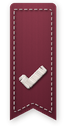
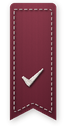
feat(bibliotheque): signet « en cours » rempli de lie de vin, coche brodée affinée (#70)
- RibbonBookmark reading : ruban écru que le lie de vin remplit depuis le haut à
  mon % (deux images calées au pixel, la seconde coupée), à la place de l'anneau
- Coche effilée aux deux bouts, pleine au coin, fils plus fins
- ReadingStateBadge supprimé

Changed region(s): [[0.2647, 0.4848, 0.7059, 0.697]]

diff --git a/components/ui/RibbonBookmark.tsx b/components/ui/RibbonBookmark.tsx
@@ -1,17 +1,20 @@
 /**
  * Composant RibbonBookmark
  *
- * Un signet en ruban, brodé, qui sort du haut du livre, passe par-dessus le bord
- * de la couverture et pend devant elle :
+ * Un signet en ruban, brodé, qui sort du haut du livre et pend devant la
+ * couverture, bout coupé en V, surpiqûre sur tout le tour :
  *
- *        ▄▄▄       ← le pli, au-dessus du bord
- *     ┌──███──┐
- *     │  ███  │    gros-grain, bout coupé en V
- *     │  █✓█  │    motif brodé au point passé
- *     │  ▀ ▀  │
+ *     ┌─────────┐  ┌─────────┐  ┌─────────┐
+ *     │┆       ┆│  │┆▓▓▓▓▓▓▓┆│  │┆       ┆│
+ *     │┆       ┆│  │┆▓▓▓▓▓▓▓┆│  │┆   ✦   ┆│
+ *     │┆   ✓   ┆│  │┆       ┆│  │┆       ┆│
+ *     └──╲ ╱──┘   └──╲ ╱──┘   └──╲ ╱──┘
+ *      terminé      en cours     nouveau
  *
- * - `done` : ruban noyer, coche brodée crème — livre terminé ;
- * - `new`  : ruban sable, étincelle brodée noyer — dernier livre ajouté.
+ * - `done`    : ruban lie de vin, coche brodée crème ;
+ * - `reading` : ruban écru que le lie de vin remplit depuis le haut, à mon % —
+ *               à 100 %, c'est le ruban « terminé » ;
+ * - `new`     : ruban écru, étincelle brodée lie de vin (dernier livre ajouté).
  *
  * Les images sont calculées par scripts/generate-ribbon-bookmarks.py (tissu,
  * broderie en relief, ombre portée) : c'est ce qui les rend réalistes. Pour une
@@ -20,26 +23,62 @@
 
 import { Image } from 'expo-image';
 import React from 'react';
-import { StyleSheet } from 'react-native';
+import { StyleSheet, View } from 'react-native';
 
 const RIBBONS = {
   done: require('../../assets/images/ribbons/ribbon-done.png'),
   new: require('../../assets/images/ribbons/ribbon-new.png'),
+  track: require('../../assets/images/ribbons/ribbon-progress-track.png'),
+  fill: require('../../assets/images/ribbons/ribbon-progress-fill.png'),
 };
 
-/** Taille de l'image, ombre comprise (cf. CANVAS_W / CANVAS_H du script) */
+/** Taille de l'image, ombre comprise, et bornes du ruban (CANVAS_*, TOP, TAIL_END du script) */
 const WIDTH = 34;
 const HEIGHT = 66;
-/** Hauteur du pli au-dessus du bord de la couverture (COVER_TOP du script) */
+const RIBBON_TOP = 1.5;
+const RIBBON_END = 60;
+/** Hauteur du ruban au-dessus du bord de la couverture (COVER_TOP du script) */
 export const RIBBON_ABOVE_COVER = 9;
+/**
+ * Remplissage minimum d'un livre commencé : à 3 %, le lie de vin n'est qu'un
+ * liseré et on ne le distingue plus d'un livre pas commencé. Le vrai % reste lu
+ * par VoiceOver sur la couverture.
+ */
+const MIN_FILL_PERCENT = 10;
 
-export default function RibbonBookmark({ kind }: { kind: keyof typeof RIBBONS }) {
-  return <Image source={RIBBONS[kind]} style={styles.ribbon} contentFit="contain" />;
+type RibbonBookmarkProps =
+  | { kind: 'done' | 'new' }
+  | { kind: 'reading'; /** Mon avancement, de 0 à 100 */ percent: number };
+
+export default function RibbonBookmark(props: RibbonBookmarkProps) {
+  if (props.kind !== 'reading') {
+    return <Image source={RIBBONS[props.kind]} style={styles.ribbon} contentFit="contain" />;
+  }
+
+  const percent = Math.min(100, Math.max(MIN_FILL_PERCENT, props.percent));
+  const fillHeight = RIBBON_TOP + ((RIBBON_END - RIBBON_TOP) * percent) / 100;
+
+  return (
+    <View style={styles.ribbon}>
+      <Image source={RIBBONS.track} style={StyleSheet.absoluteFill} contentFit="contain" />
+      {/* Le lie de vin, coupé à mon % : même tissu, même surpiqûre, calés au pixel */}
+      <View style={[styles.fill, { height: fillHeight }]}>
+        <Image source={RIBBONS.fill} style={styles.ribbon} contentFit="contain" />
+      </View>
+    </View>
+  );
 }
 
 const styles = StyleSheet.create({
   ribbon: {
     width: WIDTH,
     height: HEIGHT,
+  },
+  fill: {
+    position: 'absolute',
+    top: 0,
+    left: 0,
+    width: WIDTH,
+    overflow: 'hidden',
   },
 });

diff --git a/components/ui/BookLibrary.tsx b/components/ui/BookLibrary.tsx
@@ -11,10 +11,10 @@
  * sombre (flou + noyer à 30 %) posée PAR-DESSUS le bas des couvertures, qui
  * passent donc derrière elle.
  *
- * Sur chaque couverture, selon MA progression : l'anneau d'un livre en cours
- * (ReadingStateBadge, coin haut droit), ou un signet brodé qui pend du haut
- * (RibbonBookmark) — coche pour un livre terminé, étincelle pour le dernier
- * livre ajouté pas encore commencé. Un autre livre pas commencé n'a rien.
+ * Sur chaque couverture, selon MA progression, un signet brodé qui pend du haut
+ * (RibbonBookmark) : rempli de lie de vin à mon % pour un livre en cours, coche
+ * pour un livre terminé, étincelle pour le dernier livre ajouté pas encore
+ * commencé. Un autre livre pas commencé n'a rien.
  *
  * Toucher une couverture l'affiche sur l'accueil et ferme le sheet.
  *
@@ -38,7 +38,6 @@ import { BookReading, LibrarySort, LIBRARY_SORTS, readingLabel } from '../../uti
 import BookCover, { COVER_RATIO } from './BookCover';
 import RibbonBookmark, { RIBBON_ABOVE_COVER } from './RibbonBookmark';
 import PressableScale from './PressableScale';
-import ReadingStateBadge from './ReadingStateBadge';
 import SortMenu from './SortMenu';
 
 // ─── Props ─────────────────────────────────────────────────────────
@@ -81,8 +80,6 @@ function estimateContentHeight(shelfCount: number): number {
   return SORT_ROW_H + shelfCount * (SHELF_GAP + SHELF_H) + LIST_BOTTOM;
 }
 
-/** De combien la pastille d'état déborde du coin de la couverture */
-const BADGE_OVERHANG = 9;
 /** Pastille si le livre n'est pas encore dans `readings` (premier chargement) */
 const UNREAD: BookReading = { state: 'unread', percent: 0 };
 
@@ -194,13 +191,13 @@ function Shelf({
                 accessibilityState={{ selected: isActive }}
               >
                 <BookCover coverUrl={challenge.cover_url} outlined />
-                {isNew || reading.state === 'done' ? (
+                {(isNew || reading.state !== 'unread') && (
                   <View style={styles.ribbon} pointerEvents="none">
-                    <RibbonBookmark kind={isNew ? 'new' : 'done'} />
-                  </View>
-                ) : (
-                  <View style={styles.badge} pointerEvents="none">
-                    <ReadingStateBadge {...reading} />
+                    {reading.state === 'reading' ? (
+                      <RibbonBookmark kind="reading" percent={reading.percent} />
+                    ) : (
+                      <RibbonBookmark kind={isNew ? 'new' : 'done'} />
+                    )}
                   </View>
                 )}
               </PressableScale>
@@ -322,11 +319,6 @@ const styles = StyleSheet.create({
     height: COVER_H,
   },
   /** Pastille d'état, à cheval sur le coin haut droit de la couverture */
-  badge: {
-    position: 'absolute',
-    top: -BADGE_OVERHANG,
-    right: -BADGE_OVERHANG,
-  },
   /** Signet : son pli dépasse au-dessus du bord, il pend près du bord droit */
   ribbon: {
     position: 'absolute',

diff --git a/scripts/generate-ribbon-bookmarks.py b/scripts/generate-ribbon-bookmarks.py
@@ -17,8 +17,11 @@ Réalisme, dans l'ordre du dessin :
 - l'ombre du ruban sur la couverture.
 
 Variantes :
-- done : ruban noyer, coche brodée crème (livre terminé) ;
-- new  : ruban sable, étincelle brodée noyer (dernier livre ajouté).
+- done           : ruban lie de vin, coche brodée crème (livre terminé) ;
+- new            : ruban écru, étincelle brodée lie de vin (dernier livre ajouté) ;
+- progress-track : ruban écru nu (livre en cours, le fond) ;
+- progress-fill  : ruban lie de vin nu, sans ombre (livre en cours, le remplissage
+                   que l'app coupe à mon %).
 
 Usage : python3 scripts/generate-ribbon-bookmarks.py
 Dépendances : numpy, Pillow.
@@ -44,10 +47,19 @@ NOTCH = 6                        # profondeur du V
 ICON_CENTER = (RIBBON_X + RIBBON_W / 2, 38)
 BORDER_INSET = 2.2               # surpiqûre : distance au bord du ruban
 
+WINE = ("#8c3b4c", "#5e1f2e")
+ECRU = ("#f3e9df", "#e1cfbf")
+CREAM_THREAD = "#f6ede4"
+WINE_THREAD = "#7a2e3e"
+
 VARIANTS = {
-    # Essai d'une couleur d'accent lie de vin (demande de Lea, 2026-09-17)
-    "done": {"ribbon": ("#8c3b4c", "#5e1f2e"), "thread": "#f6ede4", "motif": "check"},
-    "new": {"ribbon": ("#f3e9df", "#e1cfbf"), "thread": "#7a2e3e", "motif": "sparkle"},
+    # Couleur d'accent lie de vin : essai (demande de Lea, 2026-09-17)
+    "done": {"ribbon": WINE, "thread": CREAM_THREAD, "motif": "check"},
+    "new": {"ribbon": ECRU, "thread": WINE_THREAD, "motif": "sparkle"},
+    # En cours : l'app superpose le ruban lie de vin (sans ombre) sur le ruban écru,
+    # coupé à mon %. Même graine, même géométrie : les deux tissus coïncident.
+    "progress-track": {"ribbon": ECRU, "thread": WINE_THREAD, "motif": None},
+    "progress-fill": {"ribbon": WINE, "thread": CREAM_THREAD, "motif": None, "shadow": False},
 }
 
 
@@ -148,22 +160,23 @@ def motif_strokes(kind):
     """Le motif : des traits (points en pt), avec la demi-largeur du fil au départ et à l'arrivée."""
     cx, cy = ICON_CENTER
     if kind == "check":
-        k = 0.74  # pt par unité du dessin Lucide (24 × 24)
-        p = [(4, 12), (9, 17), (20, 6)]
-        pts = [(cx + (a - 12) * k, cy + (b - 11.5) * k) for a, b in p]
+        k = 0.68  # pt par unité du dessin Lucide (24 × 24)
+        p = [(4.5, 12), (9, 16.5), (19.5, 6)]
+        pts = [(cx + (a - 12) * k, cy + (b - 11.25) * k) for a, b in p]
         # Comme à la main : chaque branche brodée à part, fils perpendiculaires à
-        # elle. La jonction est couverte par la grande branche, brodée en second.
-        # (Un seul tracé arrondi au coin faisait s'écarter les fils en frange.)
+        # elle, la grande branche en second pour couvrir la jonction. Effilée aux
+        # deux bouts, pleine au coin, comme un trait de plume : la coche pleine
+        # largeur, bouts carrés, faisait grossière.
         (x0, y0), (x1, y1), (x2, y2) = pts
-        hw = 1.95
+        corner = 1.4
 
         def extend(a, b, by):
             length = math.hypot(b[0] - a[0], b[1] - a[1])
             return (b[0] + (b[0] - a[0]) / length * by, b[1] + (b[1] - a[1]) / length * by)
 
-        short = smooth_polyline([(x0, y0), extend((x0, y0), (x1, y1), hw * 0.6)], 0)
-        long_leg = smooth_polyline([extend((x2, y2), (x1, y1), hw * 0.9), (x2, y2)], 0)
-        return [(short, hw, hw), (long_leg, hw, hw)]
+        short = smooth_polyline([(x0, y0), extend((x0, y0), (x1, y1), corner * 0.45)], 0)
+        long_leg = smooth_polyline([extend((x2, y2), (x1, y1), corner * 0.7), (x2, y2)], 0)
+        return [(short, 0.5, corner), (long_leg, corner, 0.28)]
     # Étincelle à quatre branches, fines au bout
     strokes = []
     for angle, length in ((-90, 7.6), (90, 7.6), (0, 6.6), (180, 6.6)):
@@ -243,8 +256,8 @@ def satin_stitches(needle, kind):
             # Fils à peine obliques ; bien droits aux bouts pour ne pas s'écarter
             skew = 0.18 if edge > 1.2 else 0.0
             sx, sy = nx + tx * skew, ny + ty * skew
-            needle.thread((px - sx * hw, py - sy * hw), (px + sx * hw, py + sy * hw), 0.52)
-            next_at += 0.42
+            needle.thread((px - sx * hw, py - sy * hw), (px + sx * hw, py + sy * hw), 0.44)
+            next_at += 0.34
 
 
 def running_stitch_border(needle):
@@ -300,7 +313,8 @@ def embroidery(kind, thread_hex, rng):
     """Motif et surpiqûre : couleur, opacité, et ombre portée des fils sur le ruban."""
     needle = Needle(thread_hex, rng)
     running_stitch_border(needle)
-    satin_stitches(needle, kind)
+    if kind:
+        satin_stitches(needle, kind)
     color, alpha = needle.layers()
     color, shadow = relief_and_shadow(color, alpha, 1.0)
     return color, alpha, shadow
@@ -320,8 +334,10 @@ def render(name, spec, rng):
     rgb = rgb * (1 - thread_shadow[..., None] * mask[..., None])
     rgb = rgb * (1 - thread_a[..., None]) + thread * thread_a[..., None]
 
-    # Ombre du ruban : plus nette sur la couverture (il est posé dessus)
-    shadow = blur(np.roll(np.roll(mask, int(0.9 * S), 0), int(0.7 * S), 1), 1.4) * 0.3
+    # Ombre du ruban : plus nette sur la couverture (il est posé dessus). Pas d'ombre
+    # pour un calque posé sur un autre ruban : elle se doublerait.
+    has_shadow = spec.get("shadow", True)
+    shadow = blur(np.roll(np.roll(mask, int(0.9 * S), 0), int(0.7 * S), 1), 1.4) * 0.3 * has_shadow
     alpha = np.clip(mask + shadow * (1 - mask), 0, 1)
     shadow_only = (1 - mask) * shadow
     # Là où il n'y a que l'ombre, la couleur est l'ombre elle-même (noyer très sombre)

diff --git a/DESIGN.md b/DESIGN.md
@@ -482,23 +482,19 @@ et perd sinon sa marge sous la barre.
 (`fitToContents`), sans blanc sous la dernière ; passé 72 % de l'écran il
 arrête de grandir et la liste défile.
 
-**État de lecture** : en haut à droite de chaque couverture, calculé sur **ma**
-progression, jamais sur celle du club :
-- **pas commencé** : rien. Une rangée d'anneaux vides n'apprenait rien ;
-- **nouveau** : seul le dernier livre ajouté, tant qu'il n'est pas commencé,
-  porte un **signet brodé** sable, étincelle brodée noyer (`RibbonBookmark new`) ;
-- **en cours** : pastille `ReadingStateBadge` de 30 pt, fond en **flou dépoli**
-  (`GlassMaterial frosted`, voile crème à 55 %), anneau de 4 pt au ras du bord
-  (pas de contour clair autour) qui se remplit en encre à mon %, depuis midi,
-  jamais moins de 10 % d'arc visible, coche grise au centre ;
-- **terminé** : **signet brodé** noyer, coche brodée crème (`RibbonBookmark done`).
+**État de lecture** : un **signet brodé** (`RibbonBookmark`) qui pend du haut de
+chaque couverture, calculé sur **ma** progression, jamais sur celle du club :
+- **pas commencé** : rien ;
+- **nouveau** : seul le dernier livre ajouté, tant qu'il n'est pas commencé —
+  ruban écru, étincelle brodée lie de vin ;
+- **en cours** : ruban écru que le **lie de vin remplit depuis le haut, à mon %**
+  (10 % au moins, sinon on ne le voit pas) ; dans la partie remplie, la surpiqûre
+  passe en crème ;
+- **terminé** : ruban entièrement lie de vin — le ruban « en cours » à 100 % —,
+  coche brodée crème.
 
-Pas le verre d'iOS 26 sous la pastille : il déforme sans flouter et laissait la
-couverture nette au travers. Ombre douce autour de chaque pastille.
-
-L'encre de la pastille est un dégradé vertical `text-secondary` → `ink-deep`.
-La coche grise au centre est indispensable : sans elle, un anneau à moitié
-rempli se lit comme un indicateur de chargement.
+Essais écartés : pastille en pourcentage « 58 % », anneau de progression sur flou
+dépoli, autocollant rond.
 
 Vocabulaire : on parle de **lectures** et de **livres**, jamais de
 « challenges ». Un groupe qui lit un livre ensemble n'est pas un challenge (le
@@ -623,7 +619,17 @@ passé**. C'est la direction « maille » : du textile réaliste, pas un pictogr
 | Variante | Ruban | Fil | Motif | Pour |
 |---|---|---|---|---|
 | `done` | lie de vin `#8c3b4c` → `#5e1f2e` | crème | coche | livre terminé |
+| `reading` | écru, rempli de lie de vin à mon % | lie de vin / crème | — | livre en cours |
 | `new` | écru `#f3e9df` → `#e1cfbf` | lie de vin | étincelle | dernier livre ajouté |
+
+`reading` superpose deux images calculées avec la même graine — `progress-track`
+(écru, avec ombre) et `progress-fill` (lie de vin, sans ombre pour ne pas la
+doubler) — et coupe la seconde à mon %. Les tissus et la surpiqûre coïncident au
+pixel.
+
+La coche est **effilée aux deux bouts et pleine au coin**, comme un trait de
+plume, chaque branche brodée à part : pleine largeur et bouts carrés, elle faisait
+grossière.
 
 Le lie de vin est un **essai de couleur d'accent** (issue dédiée sur le BBB
 Roadmap), pas encore adopté pour le reste de l'app. Premier essai en noyer et
